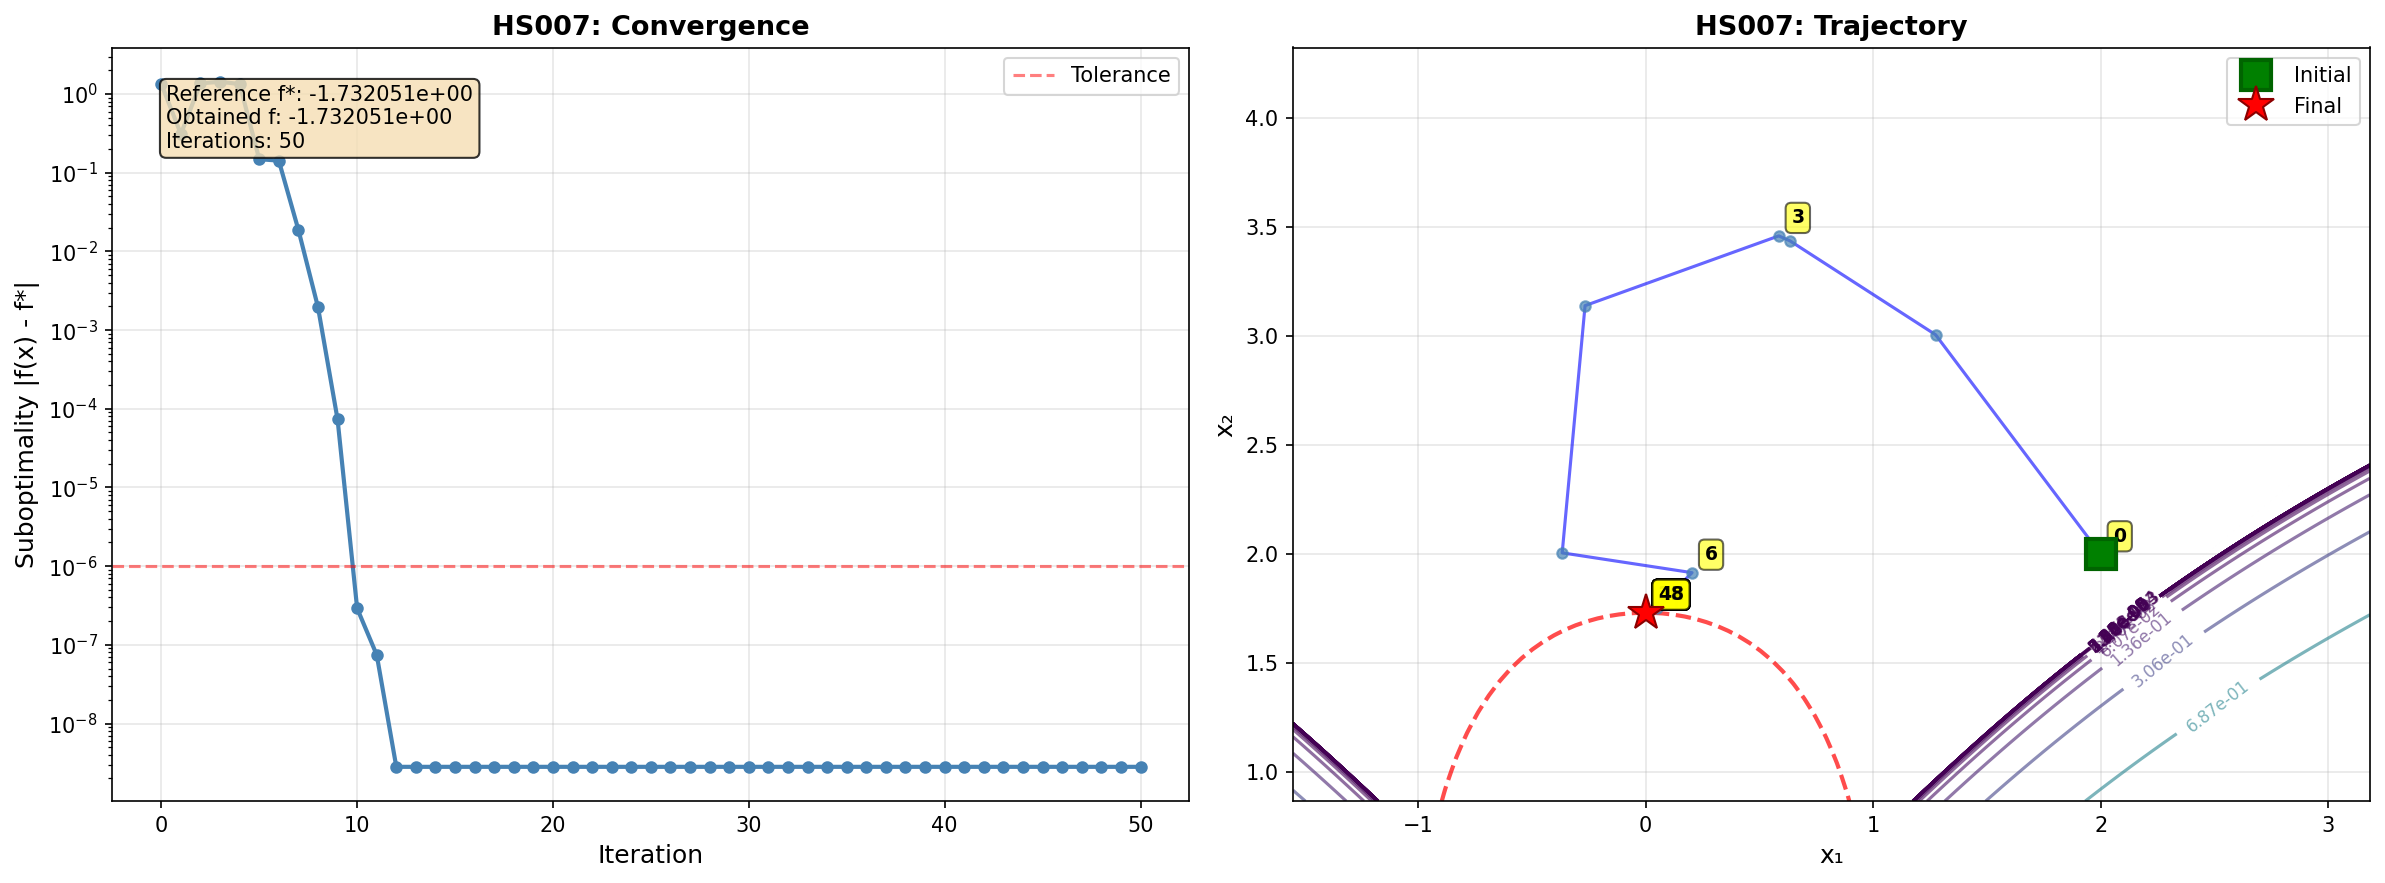
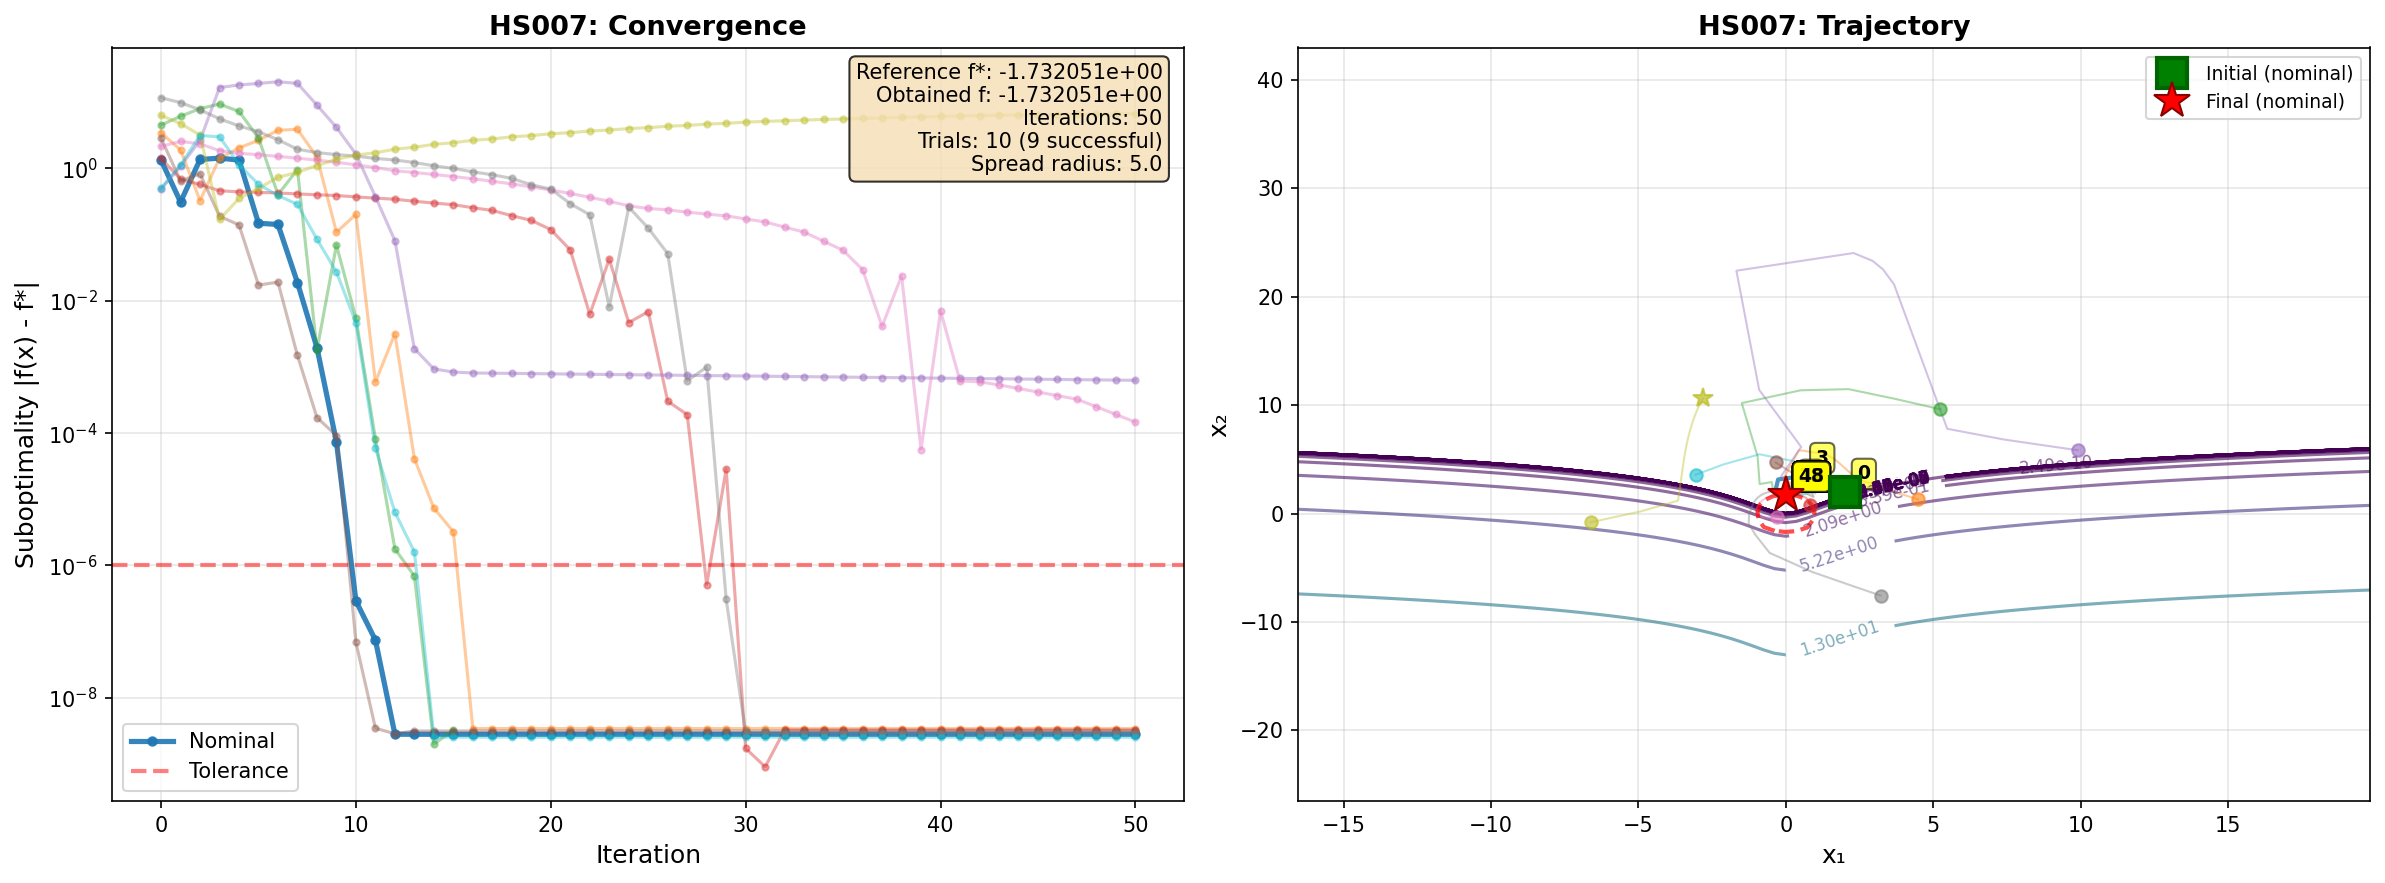
Fixed Optimization Plots

diff --git a/experiments/robustness/visualize_optimization.py b/experiments/robustness/visualize_optimization.py
@@ -12,6 +12,43 @@ from sqp.benchmarks import PROBLEM_REGISTRY
 jax.config.update("jax_enable_x64", True)
 OUTPUT_DIR = "experiments/robustness/optimization_plots"
 os.makedirs(OUTPUT_DIR, exist_ok=True)
+def create_bounds_constraints(bounds, original_c=None, original_ineq_indices=None):
+    n_vars = len(bounds)
+    bound_constraints = []
+    for i, (lb, ub) in enumerate(bounds):
+        if lb > -1e19:
+            bound_constraints.append(('lower', i, lb))
+        if ub < 1e19:
+            bound_constraints.append(('upper', i, ub))
+    n_bound_constraints = len(bound_constraints)
+    if original_c is not None:
+        test_x = jnp.zeros(n_vars)
+        c_test = jnp.atleast_1d(original_c(test_x))
+        n_original_constraints = c_test.shape[0]
+    else:
+        n_original_constraints = 0
+    def combined_c(x):
+        constraints = []
+        if original_c is not None:
+            c_orig = jnp.atleast_1d(original_c(x))
+            constraints.append(c_orig)
+        for bound_type, idx, value in bound_constraints:
+            if bound_type == 'lower':
+                constraints.append(jnp.array([value - x[idx]]))
+            else:
+                constraints.append(jnp.array([x[idx] - value]))
+        if constraints:
+            return jnp.concatenate(constraints)
+        else:
+            return jnp.zeros((0,), dtype=x.dtype)
+    if original_ineq_indices is not None:
+        combined_ineq_indices = list(original_ineq_indices)
+    else:
+        combined_ineq_indices = []
+    base_idx = n_original_constraints
+    for i in range(n_bound_constraints):
+        combined_ineq_indices.append(base_idx + i)
+    return combined_c, combined_ineq_indices
 def solve_sqp_with_history(x0, f, c, ineq_indices, max_iter=100, tol=1e-6, eta=0.25, tau=0.5, rho=0.5, mu0=10.0):
     x = jnp.array(x0, dtype=jnp.float64)
     n = x.size
@@ -137,44 +174,60 @@ def solve_unconstrained_with_history(x0, f, max_iter, tol):
         if jnp.linalg.norm(g_new) < tol:
             break
     return x, jnp.zeros(0), x_history, f_history
-def visualize_optimization(x0, f, c=None, ineq_indices=None, max_iter=50, f_optimal=None, xlim=None, ylim=None, title="Optimization Path"):
-    if c is None:
-        x_final, _, x_history, f_history = solve_unconstrained_with_history(jnp.array(x0), f, max_iter, 1e-6)
-    else:
-        if ineq_indices is None:
-            ineq_indices = []
-        x_final, _, x_history, f_history = solve_sqp_with_history(x0, f, c, ineq_indices, max_iter=max_iter)
-    x_history = np.array(x_history)
-    f_history = np.array(f_history)
+def visualize_optimization(x0, f, c=None, ineq_indices=None, max_iter=50, f_optimal=None, xlim=None, ylim=None, title="Optimization Path", spread_radius=5.0, num_trials=10):
+    all_x_histories = []
+    all_f_histories = []
+    np.random.seed(42)
+    for trial in range(num_trials):
+        if trial == 0:
+            x0_trial = x0
+        else:
+            perturbation = np.random.randn(len(x0)) * spread_radius
+            x0_trial = jnp.array(x0) + jnp.array(perturbation)
+        if c is None:
+            x_final, _, x_history, f_history = solve_unconstrained_with_history(jnp.array(x0_trial), f, max_iter, 1e-6)
+        else:
+            if ineq_indices is None:
+                ineq_indices = []
+            x_final, _, x_history, f_history = solve_sqp_with_history(x0_trial, f, c, ineq_indices, max_iter=max_iter)
+        all_x_histories.append(np.array(x_history))
+        all_f_histories.append(np.array(f_history))
+    x_history = all_x_histories[0]
+    f_history = all_f_histories[0]
     if f_optimal is None:
         f_optimal = f_history[-1]
-    suboptimality = np.abs(f_history - f_optimal)
-    suboptimality = np.maximum(suboptimality, 1e-16)
     if x_history.shape[1] == 2:
         fig, (ax1, ax2) = plt.subplots(1, 2, figsize=(16, 6))
     else:
         fig, ax1 = plt.subplots(1, 1, figsize=(8, 5))
-    ax1.semilogy(range(len(suboptimality)), suboptimality, 'o-', linewidth=2, markersize=5, color='steelblue')
+    colors = plt.cm.tab10(np.linspace(0, 1, num_trials))
+    for trial_idx, f_hist_trial in enumerate(all_f_histories):
+        subopt_trial = np.abs(f_hist_trial - f_optimal)
+        subopt_trial = np.maximum(subopt_trial, 1e-16)
+        is_nominal = (trial_idx == 0)
+        alpha_val = 0.9 if is_nominal else 0.4
+        linewidth = 2.5 if is_nominal else 1.5
+        label = 'Nominal' if is_nominal else None
+        ax1.semilogy(range(len(subopt_trial)), subopt_trial, 'o-', linewidth=linewidth, markersize=4 if is_nominal else 3, color=colors[trial_idx], alpha=alpha_val, label=label)
     ax1.set_xlabel('Iteration', fontsize=12)
     ax1.set_ylabel('Suboptimality |f(x) - f*|', fontsize=12)
     ax1.set_title(f'{title}: Convergence', fontsize=13, fontweight='bold')
     ax1.grid(True, alpha=0.3)
-    ax1.axhline(y=1e-6, color='r', linestyle='--', alpha=0.5, label='Tolerance')
-    textstr = f'Reference f*: {f_optimal:.6e}\nObtained f: {f_history[-1]:.6e}\nIterations: {len(f_history)-1}'
+    ax1.axhline(y=1e-6, color='r', linestyle='--', alpha=0.5, linewidth=2, label='Tolerance')
+    successful_trials = sum(1 for f_hist in all_f_histories if abs(f_hist[-1] - f_optimal) < 1e-3)
+    textstr = f'Reference f*: {f_optimal:.6e}\nObtained f: {f_history[-1]:.6e}\nIterations: {len(f_history)-1}\nTrials: {num_trials} ({successful_trials} successful)\nSpread radius: {spread_radius}'
     props = dict(boxstyle='round', facecolor='wheat', alpha=0.8)
-    ax1.text(0.05, 0.95, textstr, transform=ax1.transAxes, fontsize=10, verticalalignment='top', bbox=props)
+    ax1.text(0.98, 0.98, textstr, transform=ax1.transAxes, fontsize=10, verticalalignment='top', horizontalalignment='right', bbox=props)
     ax1.legend()
     if x_history.shape[1] == 2:
-        if xlim is None:
-            x_min, x_max = x_history[:, 0].min(), x_history[:, 0].max()
-            x_range = x_max - x_min
-            x_range = max(x_range, 0.1)
-            xlim = [x_min - 0.5 * x_range, x_max + 0.5 * x_range]
-        if ylim is None:
-            y_min, y_max = x_history[:, 1].min(), x_history[:, 1].max()
-            y_range = y_max - y_min
-            y_range = max(y_range, 0.1)
-            ylim = [y_min - 0.5 * y_range, y_max + 0.5 * y_range]
+        all_x = np.concatenate([h[:, 0] for h in all_x_histories])
+        all_y = np.concatenate([h[:, 1] for h in all_x_histories])
+        x_min, x_max = all_x.min(), all_x.max()
+        y_min, y_max = all_y.min(), all_y.max()
+        x_range = max(x_max - x_min, 0.1)
+        y_range = max(y_max - y_min, 0.1)
+        xlim = [x_min - 0.6 * x_range, x_max + 0.6 * x_range]
+        ylim = [y_min - 0.6 * y_range, y_max + 0.6 * y_range]
         x1 = np.linspace(xlim[0], xlim[1], 100)
         x2 = np.linspace(ylim[0], ylim[1], 100)
         X1, X2 = np.meshgrid(x1, x2)
@@ -185,14 +238,21 @@ def visualize_optimization(x0, f, c=None, ineq_indices=None, max_iter=50, f_opti
         levels = np.logspace(np.log10(max(Z.min(), 1e-10)), np.log10(Z.max()), 30)
         contour = ax2.contour(X1, X2, Z, levels=levels, alpha=0.6, cmap='viridis')
         ax2.clabel(contour, inline=True, fontsize=8, fmt='%.2e')
-        ax2.plot(x_history[:, 0], x_history[:, 1], 'b-', linewidth=1.5, alpha=0.6, zorder=2)
-        for i in range(len(x_history)):
-            if i == 0:
-                ax2.plot(x_history[i, 0], x_history[i, 1], 'gs', markersize=14, label='Initial', zorder=5, markeredgecolor='darkgreen', markeredgewidth=2)
-            elif i == len(x_history) - 1:
-                ax2.plot(x_history[i, 0], x_history[i, 1], 'r*', markersize=18, label='Final', zorder=6, markeredgecolor='darkred', markeredgewidth=1)
+        colors = plt.cm.tab10(np.linspace(0, 1, num_trials))
+        for trial_idx, (x_hist_trial, f_hist_trial) in enumerate(zip(all_x_histories, all_f_histories)):
+            is_nominal = (trial_idx == 0)
+            color = colors[trial_idx]
+            alpha_val = 0.8 if is_nominal else 0.4
+            linewidth = 2.0 if is_nominal else 1.0
+            ax2.plot(x_hist_trial[:, 0], x_hist_trial[:, 1], '-', color=color, linewidth=linewidth, alpha=alpha_val, zorder=2)
+            if is_nominal:
+                ax2.plot(x_hist_trial[0, 0], x_hist_trial[0, 1], 'gs', markersize=14, label='Initial (nominal)', zorder=5, markeredgecolor='darkgreen', markeredgewidth=2)
             else:
-                ax2.plot(x_history[i, 0], x_history[i, 1], 'o', color='steelblue', markersize=5, alpha=0.7, zorder=3)
+                ax2.plot(x_hist_trial[0, 0], x_hist_trial[0, 1], 'o', color=color, markersize=6, alpha=0.6, zorder=4)
+            if is_nominal:
+                ax2.plot(x_hist_trial[-1, 0], x_hist_trial[-1, 1], 'r*', markersize=18, label='Final (nominal)', zorder=6, markeredgecolor='darkred', markeredgewidth=1)
+            else:
+                ax2.plot(x_hist_trial[-1, 0], x_hist_trial[-1, 1], '*', color=color, markersize=10, alpha=0.7, zorder=5)
         label_step = max(1, len(x_history) // 15)
         for i in range(0, len(x_history), label_step):
             ax2.annotate(f'{i}', (x_history[i, 0], x_history[i, 1]), fontsize=9, xytext=(6, 6), textcoords='offset points', bbox=dict(boxstyle='round,pad=0.3', facecolor='yellow', alpha=0.6), fontweight='bold')
@@ -209,12 +269,10 @@ def visualize_optimization(x0, f, c=None, ineq_indices=None, max_iter=50, f_opti
         ax2.set_xlabel('x₁', fontsize=12)
         ax2.set_ylabel('x₂', fontsize=12)
         ax2.set_title(f'{title}: Trajectory', fontsize=13, fontweight='bold')
-        ax2.legend(loc='best')
+        ax2.legend(loc='best', fontsize=9)
         ax2.grid(True, alpha=0.3)
-        if np.isfinite(xlim[0]) and np.isfinite(xlim[1]) and xlim[0] < xlim[1]:
-            ax2.set_xlim(xlim)
-        if np.isfinite(ylim[0]) and np.isfinite(ylim[1]) and ylim[0] < ylim[1]:
-            ax2.set_ylim(ylim)
+        ax2.set_xlim(xlim)
+        ax2.set_ylim(ylim)
     plt.tight_layout()
     return fig, x_history, f_history
 def process_problem_from_registry(problem, max_iter=50, save_plot=True):
@@ -228,30 +286,26 @@ def process_problem_from_registry(problem, max_iter=50, save_plot=True):
     f_jax, c_jax = problem["funcs_jax"]
     ineq_indices = problem.get("ineq_indices_jax", [])
     n_constr = problem["n_constr"]
+    bounds = problem.get("bounds", None)
     print(f"\n{'='*70}")
+    print(f"Problem: {name}")
+    print(f"Variables: {n_vars}, Constraints: {n_constr}")
+    print(f"Initial point: {x0}")
+    print(f"Reference objective: {f_optimal}")
+    print(f"Bounds: {bounds}")
     print(f"{'='*70}")
+    if bounds is not None:
+        has_finite_bounds = any(b[0] > -1e19 or b[1] < 1e19 for b in bounds)
+        if has_finite_bounds:
+            c_with_bounds, ineq_with_bounds = create_bounds_constraints(bounds, c_jax if n_constr > 0 else None, ineq_indices if n_constr > 0 else None)
+            print(f"Added bound constraints, total constraints now: {len(ineq_with_bounds)}")
+            c_jax = c_with_bounds
+            ineq_indices = ineq_with_bounds
     try:
-        if n_constr == 0:
-            _, _, x_hist_quick, _ = solve_unconstrained_with_history(jnp.array(x0), f_jax, max_iter, 1e-6)
+        if n_constr == 0 and (bounds is None or not has_finite_bounds):
+            fig, x_hist, f_hist = visualize_optimization(x0, f_jax, c=None, ineq_indices=None, max_iter=max_iter, f_optimal=f_optimal, title=name.upper(), spread_radius=5.0, num_trials=10)
         else:
-            _, _, x_hist_quick, _ = solve_sqp_with_history(x0, f_jax, c_jax, ineq_indices, max_iter=max_iter)
-        x_hist_quick = np.array(x_hist_quick)
-        x_min, x_max = x_hist_quick[:, 0].min(), x_hist_quick[:, 0].max()
-        y_min, y_max = x_hist_quick[:, 1].min(), x_hist_quick[:, 1].max()
-        x_range = max(x_max - x_min, 0.1)
-        y_range = max(y_max - y_min, 0.1)
-        xlim = [x_min - 0.5 * x_range, x_max + 0.5 * x_range]
-        ylim = [y_min - 0.5 * y_range, y_max + 0.5 * y_range]
-    except:
-        x0_range = np.abs(x0)
-        margin = np.maximum(x0_range * 0.5, 1.0)
-        xlim = [x0[0] - margin[0], x0[0] + margin[0]]
-        ylim = [x0[1] - margin[1], x0[1] + margin[1]]
-    try:
-        if n_constr == 0:
-            fig, x_hist, f_hist = visualize_optimization(x0, f_jax, c=None, ineq_indices=None, max_iter=max_iter, f_optimal=f_optimal, xlim=xlim, ylim=ylim, title=name.upper())
-        else:
-            fig, x_hist, f_hist = visualize_optimization(x0, f_jax, c=c_jax, ineq_indices=ineq_indices, max_iter=max_iter, f_optimal=f_optimal, xlim=xlim, ylim=ylim, title=name.upper())
+            fig, x_hist, f_hist = visualize_optimization(x0, f_jax, c=c_jax, ineq_indices=ineq_indices, max_iter=max_iter, f_optimal=f_optimal, title=name.upper(), spread_radius=5.0, num_trials=10)
         print(f"Final point: {x_hist[-1]}")
         print(f"Final objective: {f_hist[-1]:.6e}")
         print(f"Reference objective: {f_optimal:.6e}")

diff --git a/experiments/robustness/run.py b/experiments/robustness/run.py
@@ -3,6 +3,7 @@ import pandas as pd #type:ignore
 import matplotlib.pyplot as plt
 from pathlib import Path
 from datetime import datetime
+import sys
 from sqp.benchmarks.runner import (
     PROBLEM_REGISTRY,
     evaluate_torch, evaluate_jax_batch, evaluate_scipy,
@@ -244,7 +245,6 @@ def run_all_experiments_automated():
         logger.close()
 
 if __name__ == "__main__":
-    import sys
     if len(sys.argv) == 1:
         run_all_experiments_automated()
     else:
